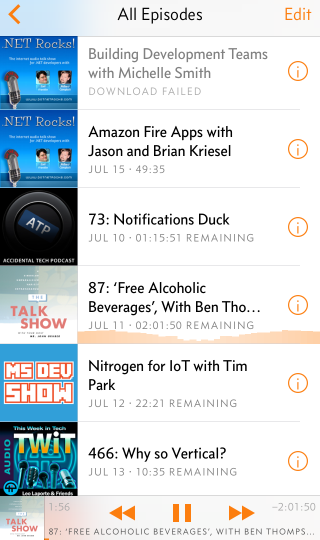
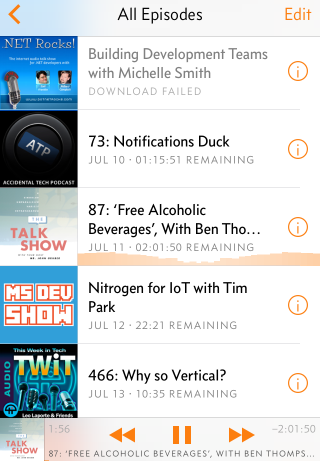
added a thought or 2 at the bottom
add pics too.

diff --git a/overcast-first-thoughts-mini-review.md b/overcast-first-thoughts-mini-review.md
@@ -19,11 +19,11 @@ I loved this app immediately. It gets so many details right.
 
 - an EQ display in 3 places lets you know what's playing: in the main podcast list view, in the podcast details view, and in the now-playing view. I first considered it eye candy, but realized that it was important feedback in drawing your attention to the currently playing podcast. 
 
-- each podcast can have its own playback speed. This is available in most advanced podcast apps.
+- each podcast can have its own playback speed, and I use this feature. It's available in most advanced podcast apps, and I'm happy to see it here.
  
 - on the play screen, I accidentally <a href="img/overcast/overcast-show-notes.png">scrolled the artwork up</a>, and the notes appeared. Hooray. It wasn't immediately obvious, and I frequently use show notes.
 
-- the smart speed feature appears to minimize gaps of silence. The number keeps changing even as I hear people talk. I would love to hear more about what's going on underneath.
+- the <a href="/img/overcast/smart-speed.png">smart speed feature</a> appears to minimize gaps of silence. The number keeps changing even as I hear people talk. I would love to hear more about what's going on underneath.
  
 - both the <a href="img/overcast/overcast-lock.png">lock screen and control center</a> show your configured forward and reverse skip times. This isn't default behaviour on iOS - the developer has to explicitly include this, and I've seen devs/apps screw up the lock screen displays & controls. Nice touch.
 
@@ -34,7 +34,7 @@ I loved this app immediately. It gets so many details right.
 
 ### Navigation
 
-- the main podcasts list screen has a perfect balance of album art and meta info. I prefer to see the art as my main navigational cue, and 
+- the <a href="img/overcast/front-screen.png">main podcasts list screen</a> has a perfect balance of album art and meta info. I prefer to see the art as my main navigational cue, and 
 
 - the mini player is visible at the bottom ALL THE TIME. Nice.
 
@@ -61,11 +61,11 @@ I loved this app immediately. It gets so many details right.
 ### Other Benefits
 
 You can manage and play your podcast playlist on the [Overcast website](https://overcast.fm/podcasts) too. Here's where the account creation is important. 
-Episodes retain their play position. The level of integration and details taken care of on v1 are impressive. 
+Episodes retain their play position. The level of integration and details taken care of on v1 are impressive. It's unbelievably well polished, and sets a really high bar for ease of use. All the other podcast apps look instantly dated and fugly. 
 
-I've uninstalled Downcast already after 5 mins of using Overcast. Sorry not sorry, Downcast. It was still stuck in the iOS 6 shiny textured look and feel, and is super-cluttered.
+I've uninstalled Downcast already after 5 mins of using Overcast. #SorryNotSorry, Downcast. Today your app is stuck in the iOS 6 shiny textured look and feel, and is super-cluttered.
 
-If you're already using an existing podcast app, Overcast can read OPML files from those apps. You won't have to spend 20 minutes doing the wasteful search/re-subscribing to podcast feeds in Overcast.
+If you're already using an existing podcast app, Overcast can read OPML files from those apps. You won't have to spend 20 minutes doing the wasteful search/re-subscribing to podcast feeds in Overcast. No question the best experience I've had transitioning from an old to a new podcast app.
 
 ### Background on Overcast
 
